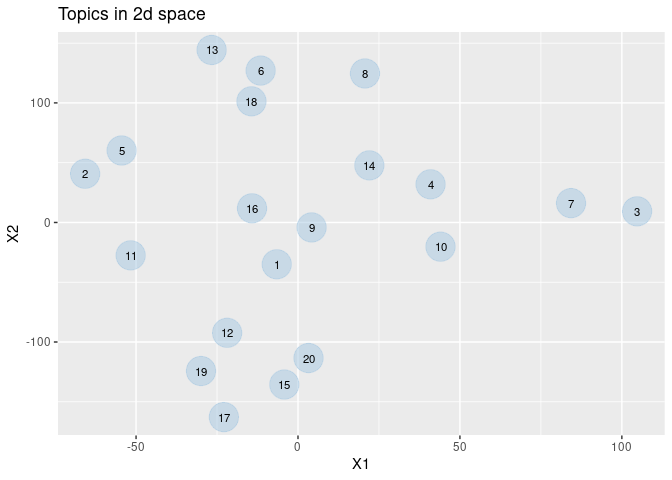
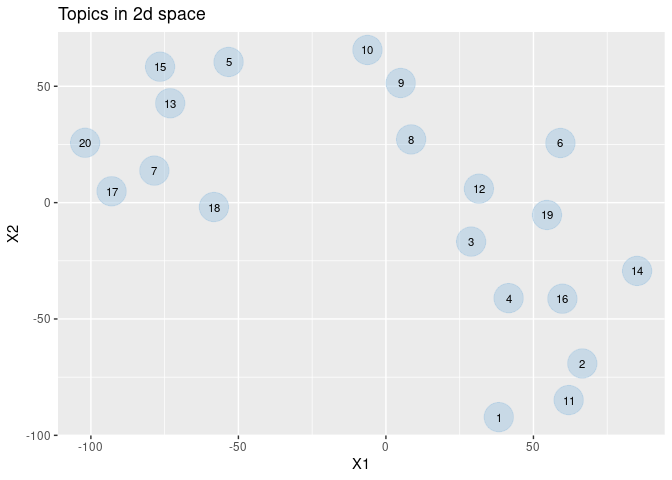
re

diff --git a/README.md b/README.md
@@ -1,11 +1,9 @@
 # PubmedMTK
 
-***PubMed Mining Toolkit***
-
-An R package for querying the PubMed database & parsing retrieved
-records. Toolkit facilitates batch API requests, the creation of custom
-corpora for NLP, and the quick exploration & visualization of topic
-structure.
+**PubMed Mining Toolkit**: An R package for querying the PubMed database
+& parsing retrieved records. Toolkit facilitates batch API requests, the
+creation of custom corpora for NLP, and the quick exploration &
+visualization of topic structure.
 
 -   [Installation](#installation)
 -   [Usage](#usage)
@@ -170,8 +168,8 @@ lda <- text2vec::LDA$new(n_topics = 20)
 fit <- lda$fit_transform(dtm, progressbar = F)
 ```
 
-    ## INFO  [14:15:30.092] early stopping at 150 iteration 
-    ## INFO  [14:15:30.387] early stopping at 20 iteration
+    ## INFO  [14:39:20.918] early stopping at 80 iteration 
+    ## INFO  [14:39:21.274] early stopping at 20 iteration
 
 ``` r
 tm_summary <- PubmedMTK::pmtk_summarize_lda(
@@ -180,18 +178,18 @@ tm_summary <- PubmedMTK::pmtk_summarize_lda(
 
 #### Feature composition of first ten topics
 
-| topic_id | topic_features                                                                                                                                                                                                                                      |
-|---------:|:----------------------------------------------------------------------------------------------------------------------------------------------------------------------------------------------------------------------------------------------------|
-|        1 | pain \| neoplasms \| nausea \| palliative_care \| vomiting \| cancer_pain \| cannabinoids \| drug_prescriptions \| cancer \| evidence-based_medicine                                                                                                |
-|        2 | legislation,\_drug \| united_states \| opioid-related_disorders \| public_health \| colorado \| analgesics,\_opioid \| opioids \| drug_overdose \| adolescent_behavior \| adolescents                                                               |
-|        3 | marijuana_smoking \| adolescent \| marijuana_abuse \| child \| risk_factors \| risk_assessment \| internet \| new_zealand \| attitude \| administration,\_inhalation                                                                                |
-|        4 | marijuana_use \| marijuana_abuse \| prevalence \| cannabis \| thc \| cbd \| mental_disorders \| alcohol_drinking \| cohort_studies \| marijuana                                                                                                     |
-|        5 | united_states \| attitude_of_health_personnel \| health_knowledge,\_attitudes,\_practice \| practice_patterns,\_physicians’ \| health_policy \| physicians \| drug_approval \| minnesota \| policy_making \| health_personnel                       |
-|        6 | cannabis \| phytotherapy \| legislation,\_drug \| hiv_infections \| israel \| hallucinogens \| commerce \| australia \| clinical_trials_as_topic \| plants,\_medicinal                                                                              |
-|        7 | marijuana_smoking \| marijuana \| united_states \| marijuana_use \| illicit_drugs \| pregnancy \| legalization \| medical_marijuana_laws \| logistic_models \| policy                                                                               |
-|        8 | cannabis \| cannabinoids \| tetrahydrocannabinol \| cannabinoid \| health_policy \| reproducibility_of_results \| cannabidiol \| tourette_syndrome \| drug-related_side_effects_and_adverse_reactions \| accidents,\_traffic                        |
-|        9 | animals \| epilepsy \| cannabidiol \| endocannabinoids \| anticonvulsants \| treatment_outcome \| brain \| child \| receptors,\_cannabinoid \| seizures                                                                                             |
-|       10 | drug_and_narcotic_control \| state_government \| government_regulation \| marijuana_smoking \| federal_government \| politics \| united_states_food_and_drug_administration \| california \| health_services_accessibility \| legislation,\_medical |
+| topic_id | topic_features                                                                                                                                                                                                            |
+|---------:|:--------------------------------------------------------------------------------------------------------------------------------------------------------------------------------------------------------------------------|
+|        1 | middle_aged \| aged \| adult \| female \| aged,\_80_and_over \| marijuana_abuse \| self_medication \| health_personnel \| adolescent \| mental_health                                                                     |
+|        2 | male \| adult \| female \| marijuana_use \| washington \| israel \| middle_aged \| stress_disorders,\_post-traumatic \| attitude \| longitudinal_studies                                                                  |
+|        3 | marijuana \| female \| pain \| colorado \| prevalence \| anxiety \| depression \| adolescent \| policy \| adolescents                                                                                                     |
+|        4 | adult \| medical_cannabis \| marijuana_abuse \| risk_factors \| retrospective_studies \| female \| anticonvulsants \| child \| child,\_preschool \| middle_aged                                                           |
+|        5 | dronabinol \| cannabidiol \| cannabis \| multiple_sclerosis \| marijuana_smoking \| evidence-based_medicine \| nabiximols \| drug_combinations \| muscle_spasticity \| nabilone                                           |
+|        6 | chronic_pain \| analgesics,\_opioid \| pain_management \| opioid-related_disorders \| endocannabinoids \| medical_cannabis \| opioids \| drug_prescriptions \| drug_overdose \| prescription_drug_misuse                  |
+|        7 | cannabis \| united_states \| cannabinoids \| drug_approval \| plant_preparations \| drug_and_narcotic_control \| glaucoma \| australia \| clinical_trials_as_topic \| epilepsy                                            |
+|        8 | legislation,\_drug \| united_states \| nausea \| public_policy \| vomiting \| commerce \| marijuana_smoking \| mental_disorders \| public_health \| legalization                                                          |
+|        9 | phytotherapy \| legislation,\_drug \| state_government \| canada \| politics \| federal_government \| united_states_food_and_drug_administration \| drug_and_narcotic_control \| public_health \| evidence-based_medicine |
+|       10 | phytotherapy \| drug_and_narcotic_control \| cannabis \| hiv_infections \| california \| government_regulation \| canada \| physicians \| biomedical_research \| jurisprudence                                            |
 
 ### Two-dimensional analyses
 
